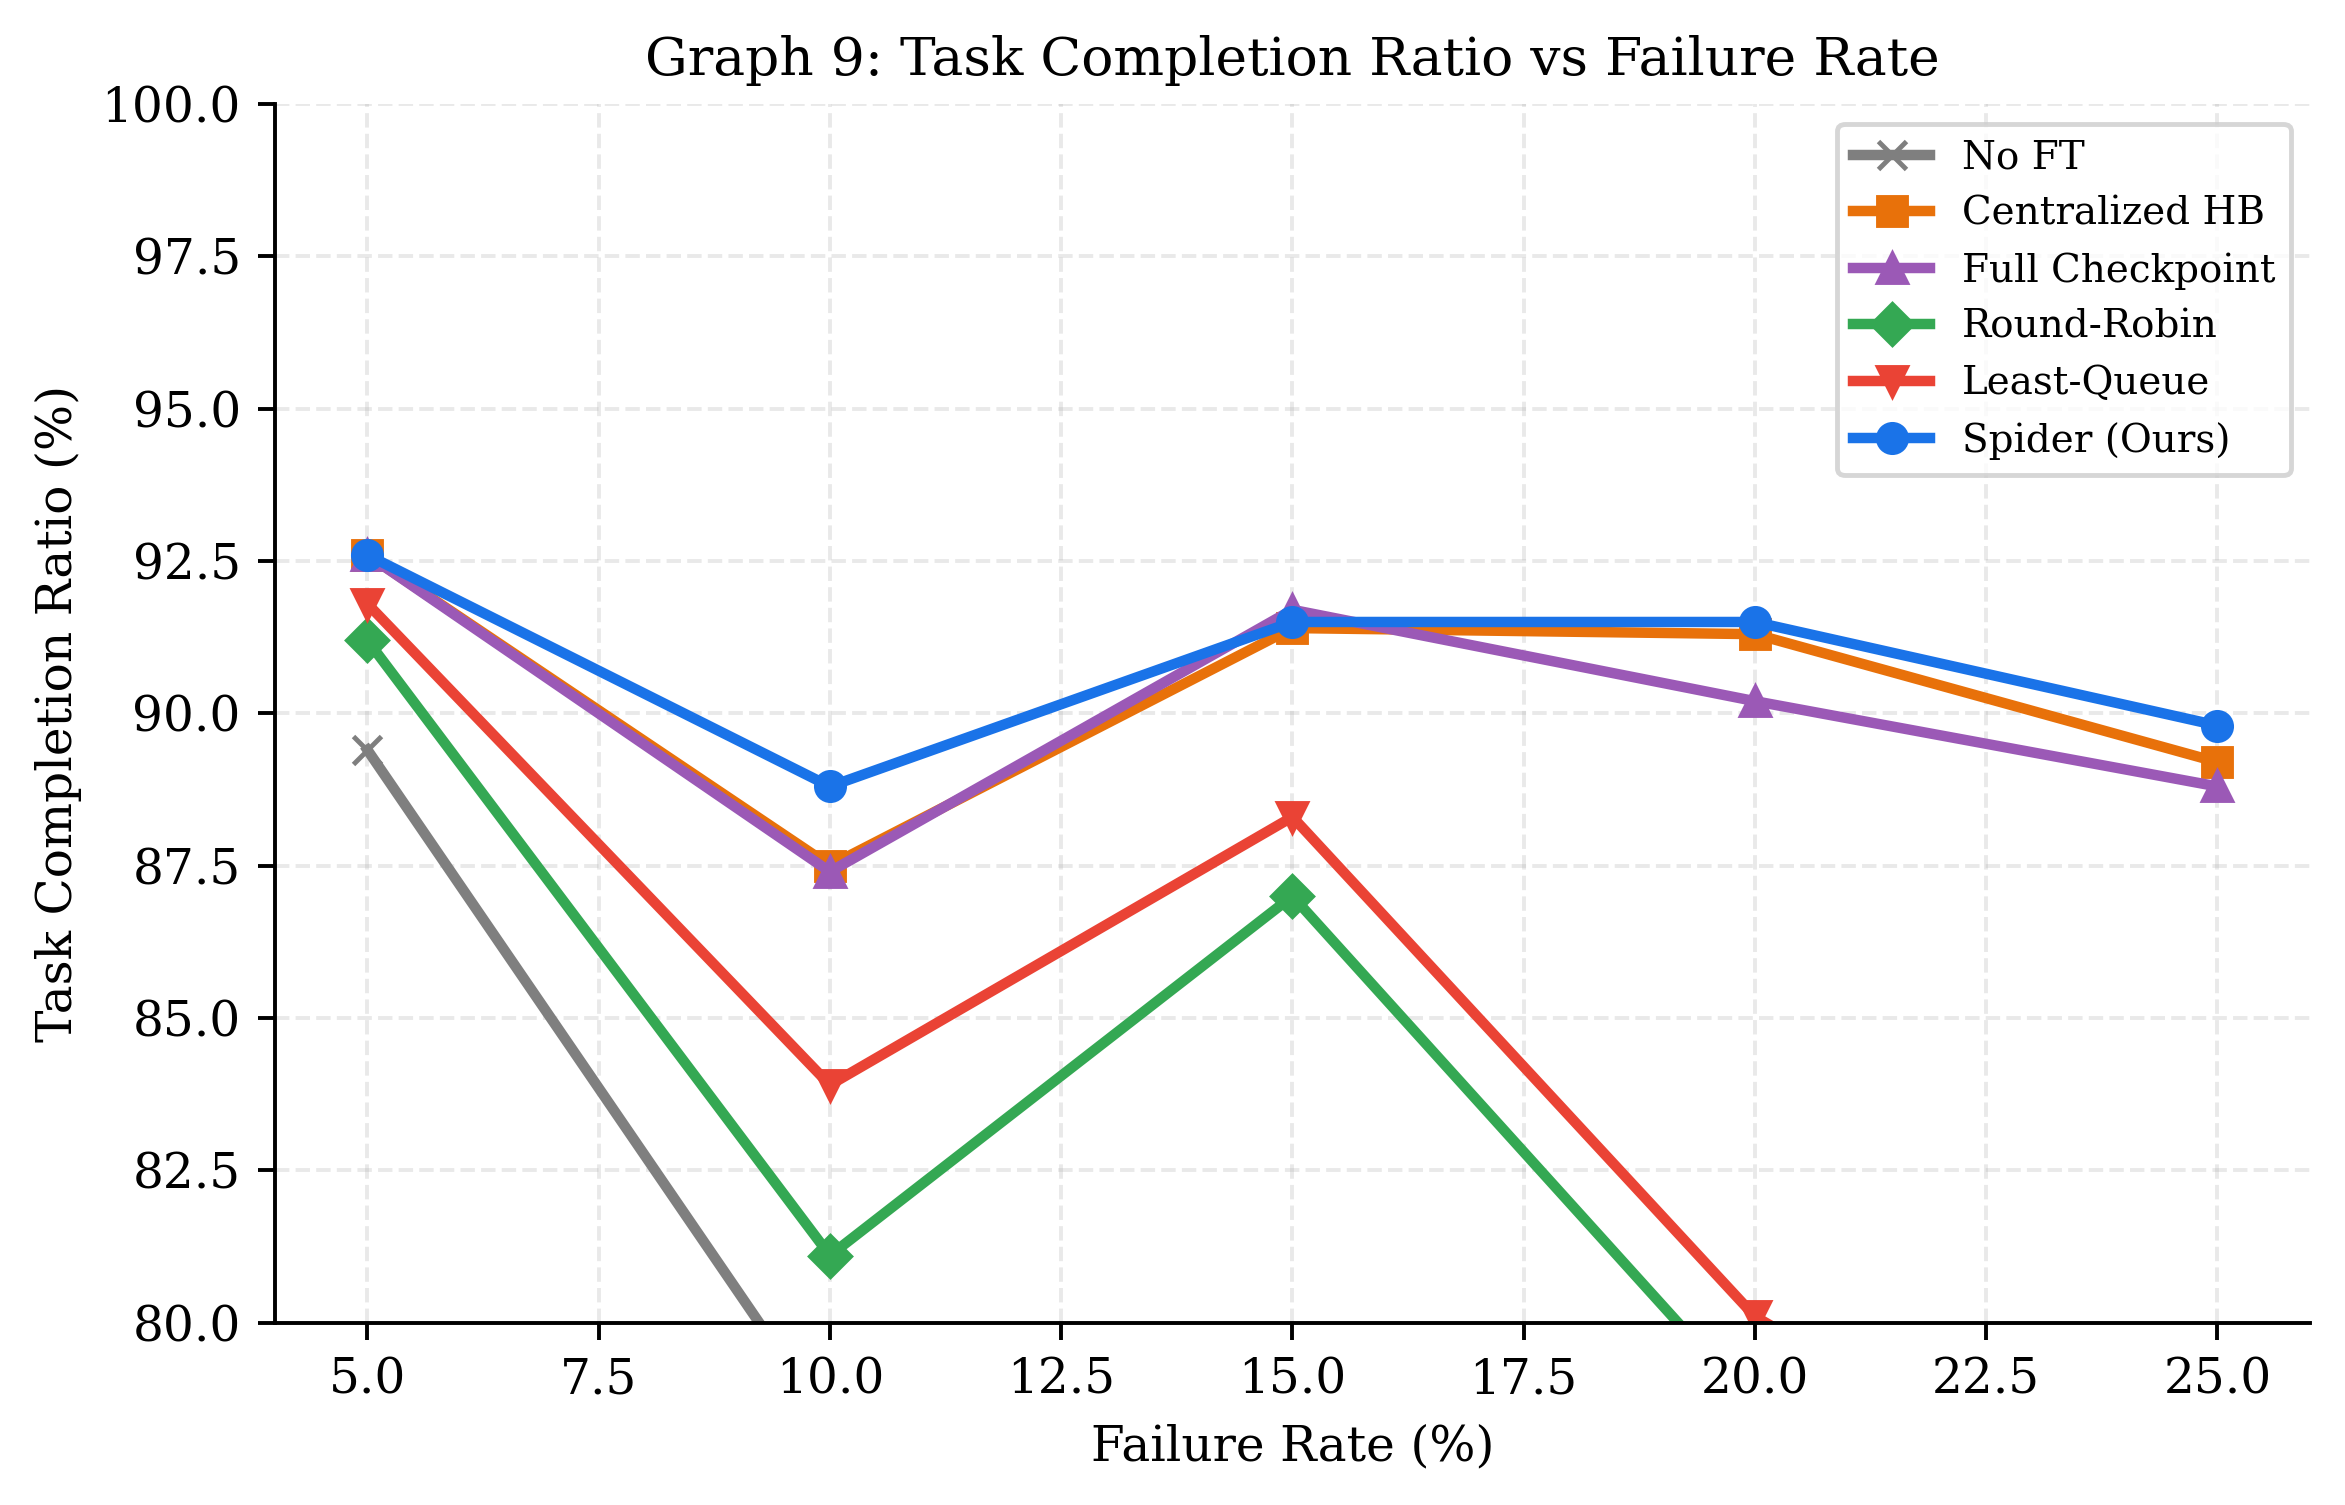
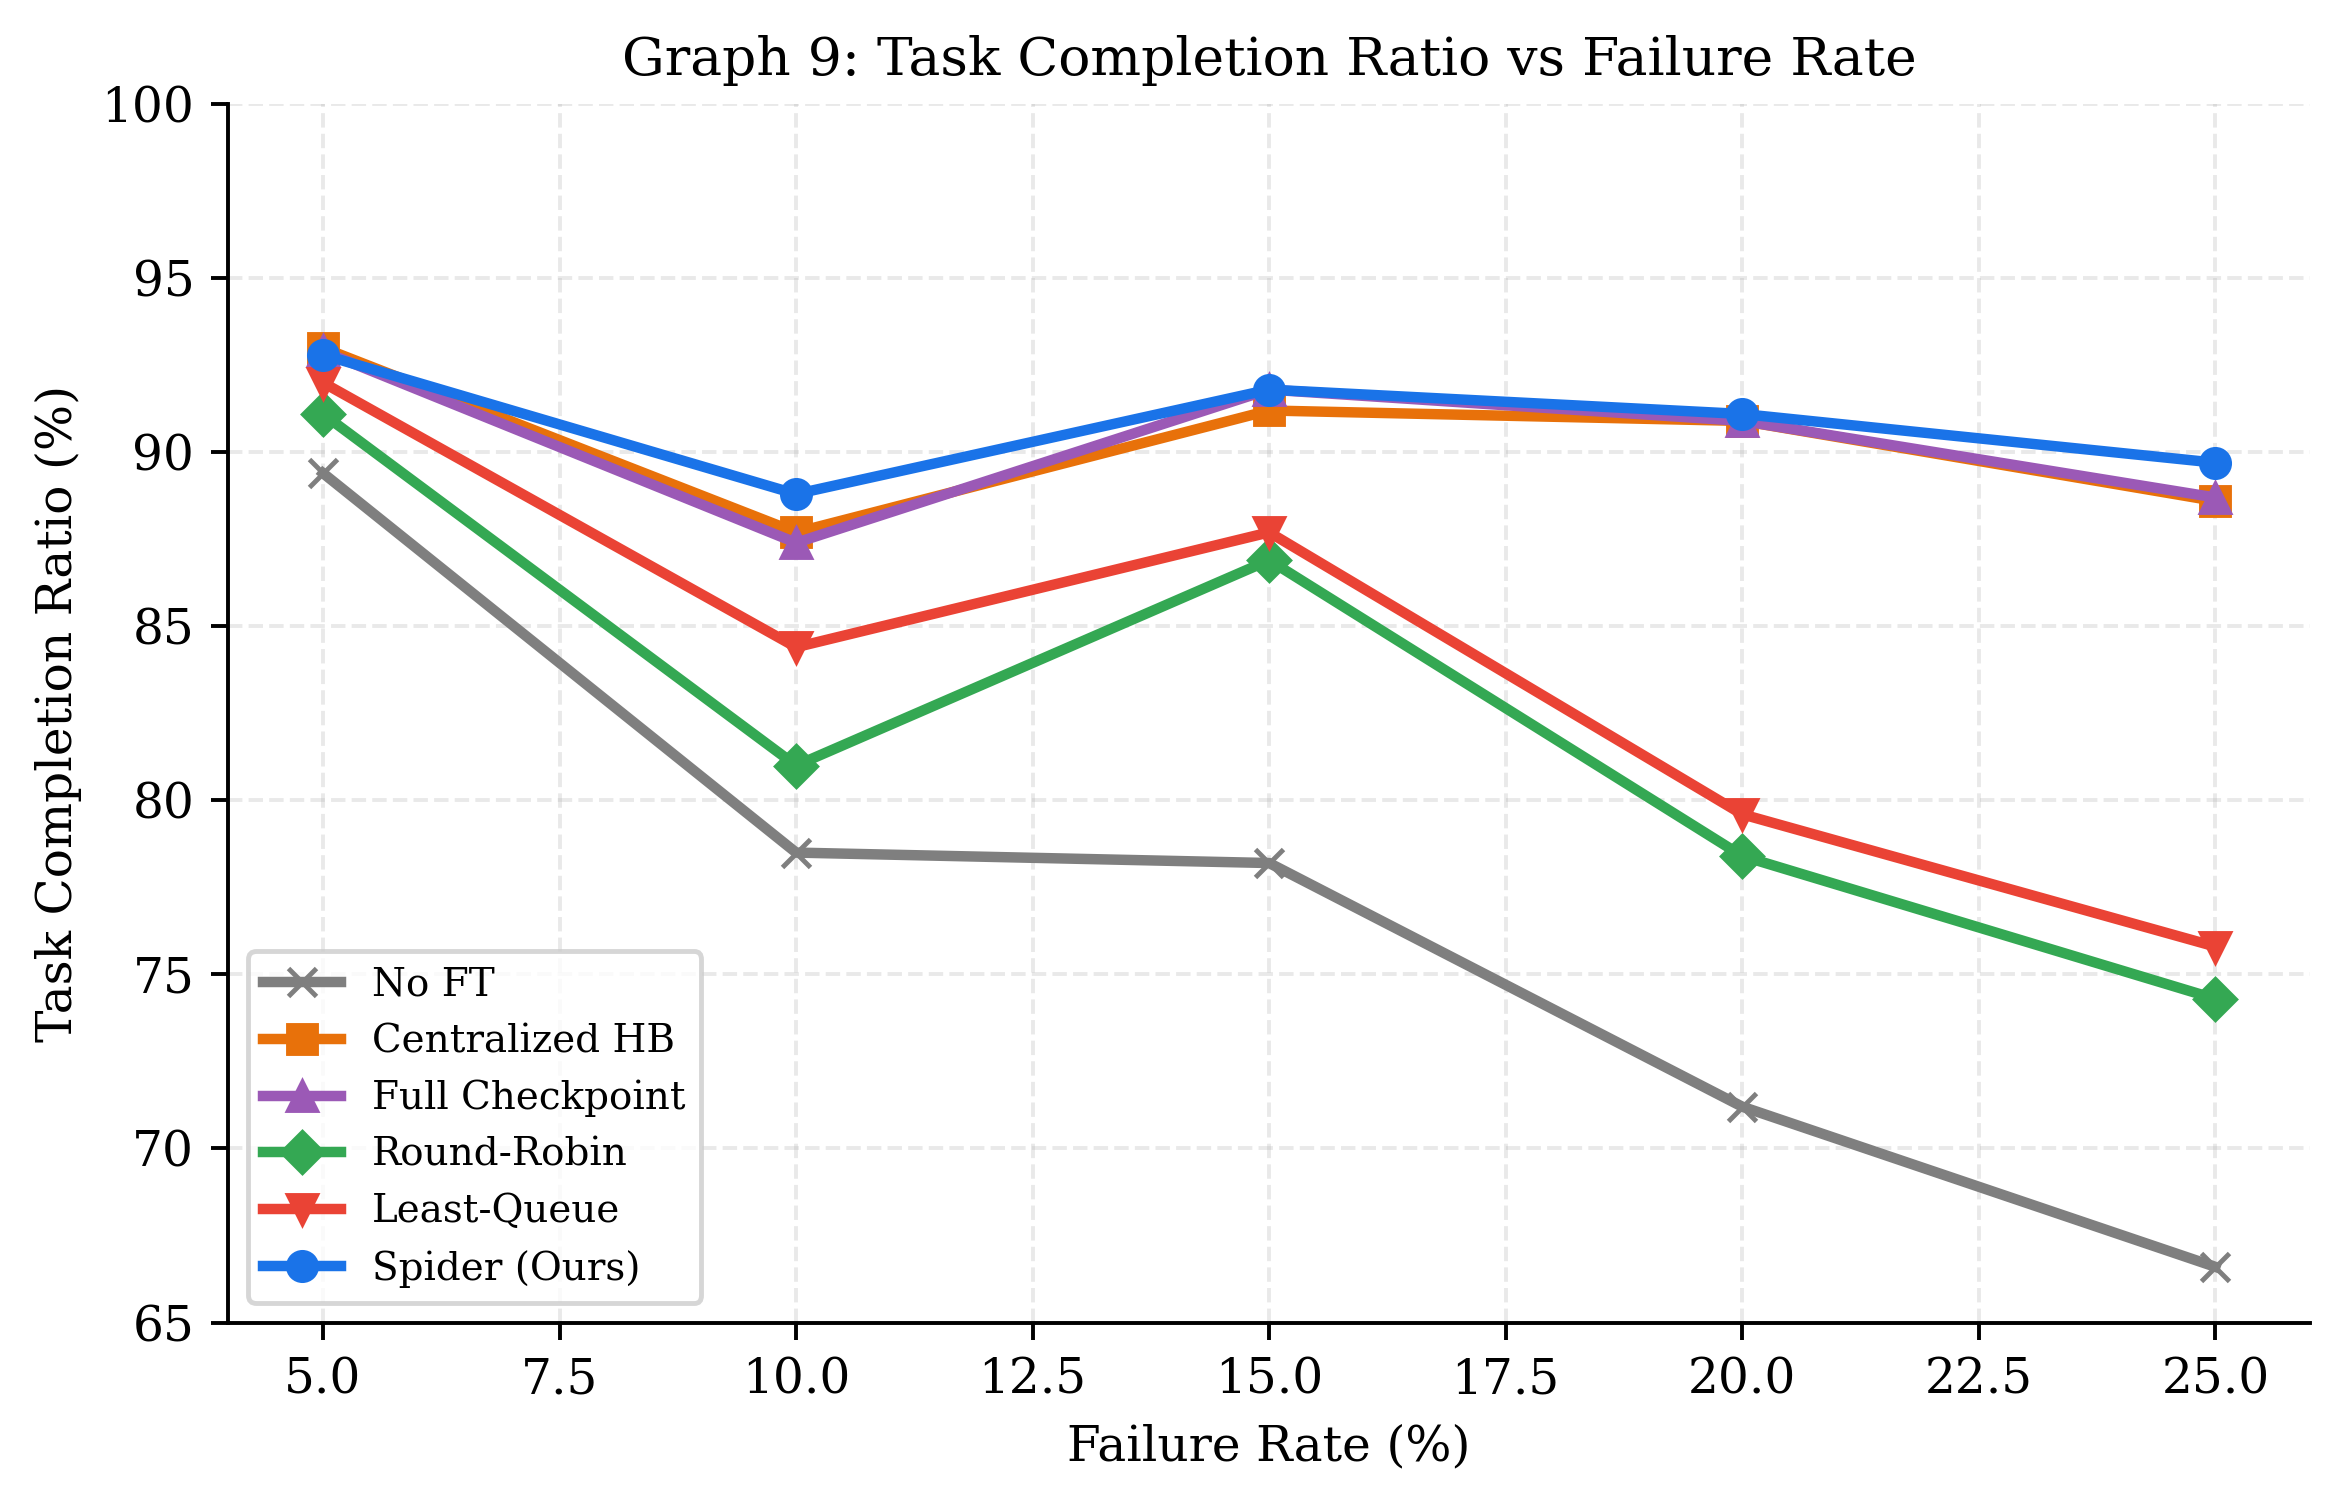
Latest Update

diff --git a/config.py b/config.py
@@ -233,5 +233,3 @@ HEARTBEAT_JITTER_SIGMA = 2.0         # Std dev of heartbeat transmission delay (
 HEARTBEAT_CONGESTION_PROB = 0.05     # Congestion spike probability (B3)
 HEARTBEAT_CONGESTION_MIN_MS = 30.0   # Min congestion delay
 HEARTBEAT_CONGESTION_MAX_MS = 60.0   # Max congestion delay
-
-

diff --git a/graphs/graph9.py b/graphs/graph9.py
@@ -59,7 +59,7 @@ def graph9_task_completion(rng: np.random.Generator, reps: int = None):
         "Failure Rate (%)",
         "Task Completion Ratio (%)",
         "graph9_task_completion",
-        ylim_bottom=80.0,
+        ylim_bottom=65.0,
         ylim_top=100.0,
     )
     return data